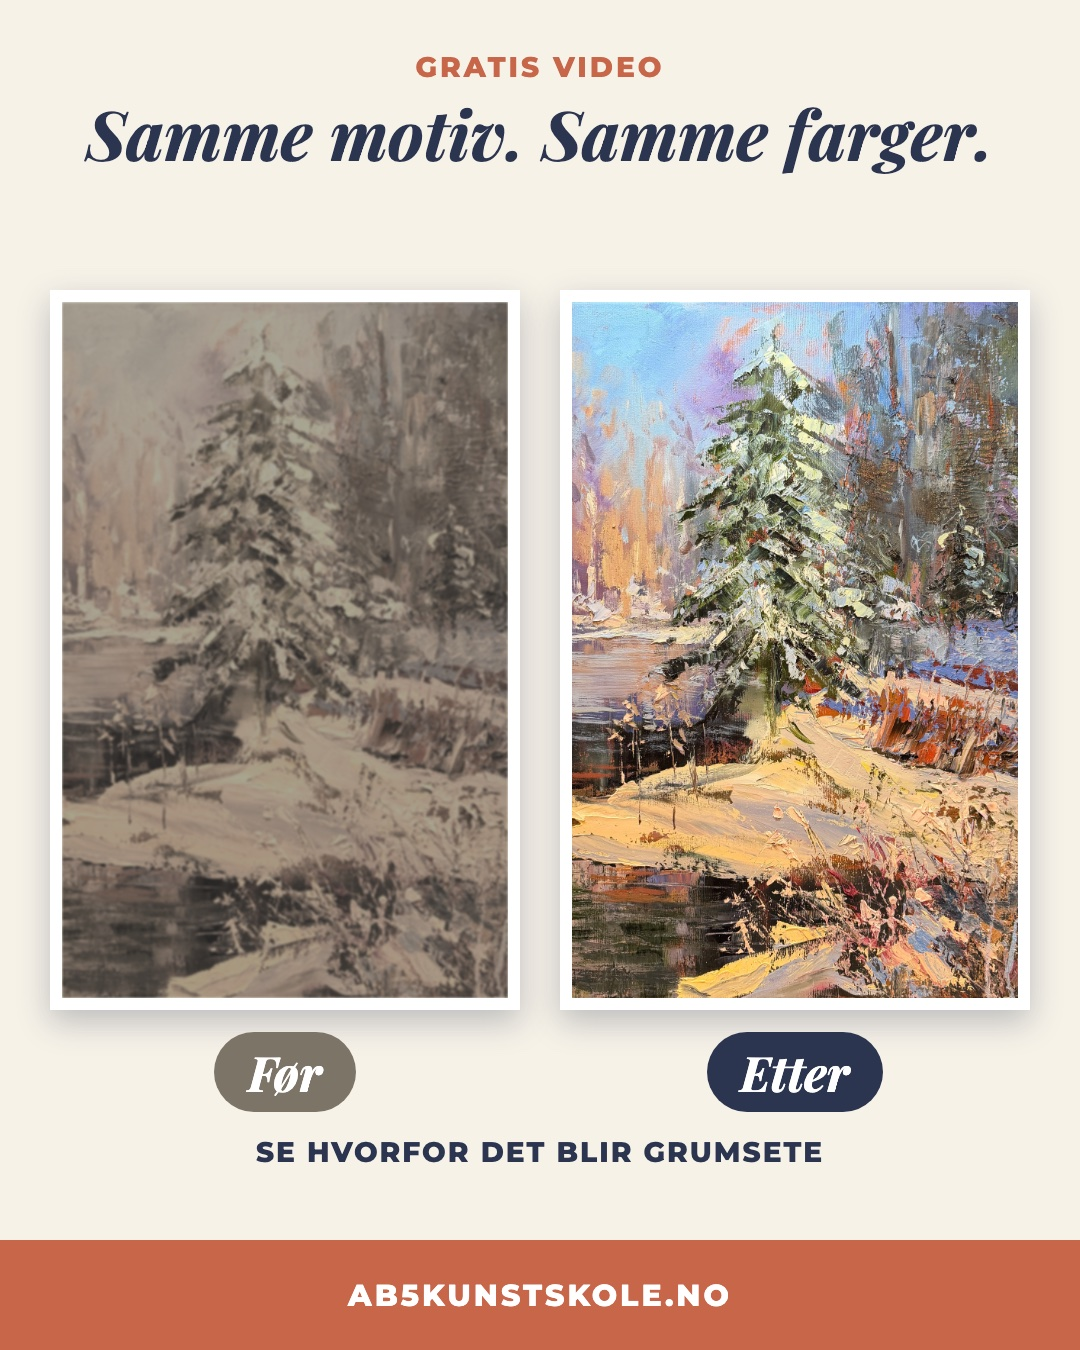
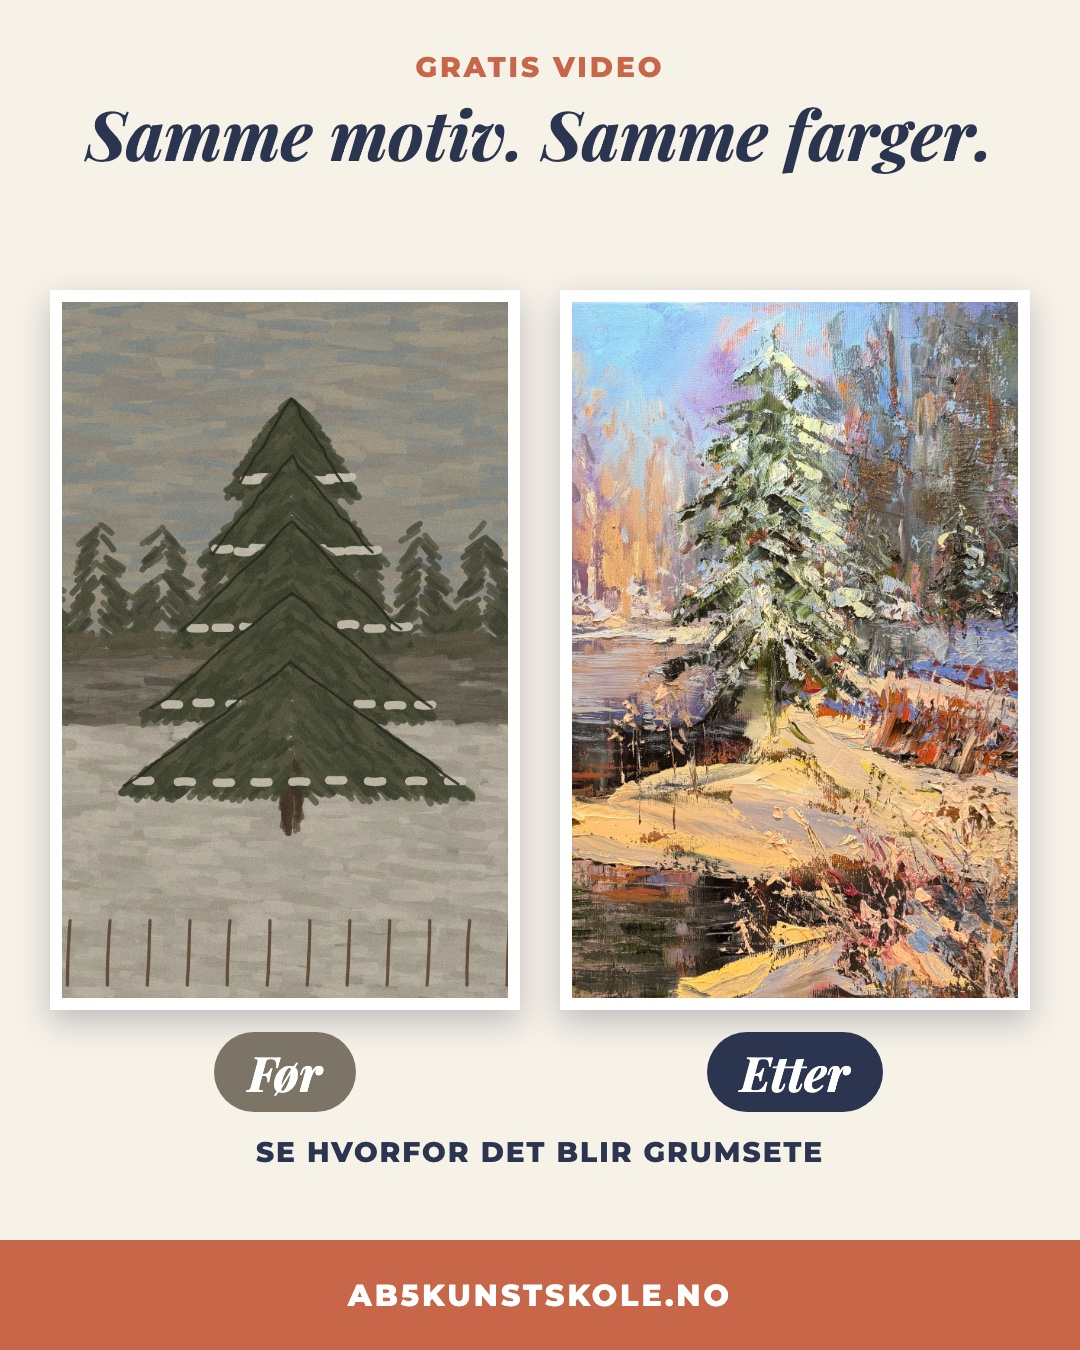
feat: new beginner painting in P1b

Changed region(s): [[0.0306, 0.2178, 0.4889, 0.7467]]

diff --git a/index.html b/index.html
@@ -342,12 +342,12 @@ hr{display:none}
 <h2 id="p1b">P1b: Før/Etter split, muddy painting</h2>
 <div class="gallery"><a href="images/p1b-grumsete-feed.jpg" target="_blank"><img class="ad" src="images/p1b-grumsete-feed.jpg" alt="P1b feed"></a><a href="images/p1b-grumsete-story.jpg" target="_blank"><img class="ad" src="images/p1b-grumsete-story.jpg" alt="P1b story"></a></div>
 
-<p><strong>Format:</strong> same side-by-side layout as P1, but the Før picture is a muddy, flat version of the same painting instead of the photo. 4:5 feed and 9:16 story. Test against P1.
+<p><strong>Format:</strong> same side-by-side layout as P1, but the Før picture is a weak beginner painting of the same scene instead of the photo. 4:5 feed and 9:16 story. Test against P1.
 <strong>Audience:</strong> cold.</p>
 <h3>Image brief</h3>
 <ul>
 <li>Headline: <strong>Samme motiv. Samme farger.</strong></li>
-<li>Left frame: Agita's painting made dull and muddy (lower saturation, brown cast, flat contrast, slight blur). This is an illustration of grumsete colours, not a real student painting. Right frame: the original painting.</li>
+<li>Left frame: a drawn beginner painting of the same scene (<code>source/amateur-painting.png</code>): tree stiff and dead centre with a dark outline, horizon in the middle, a row of identical background trees, flat grey sky, muddy river, dirty grey snow, evenly spaced snow dabs and grass sticks. It is an illustration, not a real student painting. Right frame: Agita's painting.</li>
 <li>Under: <strong>SE HVORFOR DET BLIR GRUMSETE</strong> and the <strong>AB5KUNSTSKOLE.NO</strong> bar.</li>
 </ul>
 <h3>Primary text</h3>
